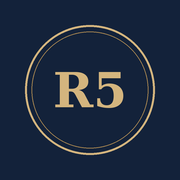
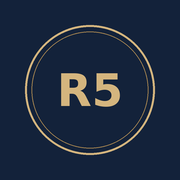
v2.1: tipografía sin serifa del sistema en toda la app
Claude-Session: https://claude.ai/code/session_01GUBCp8bpnbjM9q6QvJCUhL

Changed region(s): [[0.3056, 0.3889, 0.6944, 0.6111], [0.4722, 0.5278, 0.5, 0.5556]]

diff --git a/index.html b/index.html
@@ -19,7 +19,7 @@
   --navy:#13223a; --navy-2:#1c3050; --gold:#ad8a52; --gold-2:#d4b57e; --gold-soft:#efe5d2;
   --banco:#24406b; --ok:#2f6b4f; --ok-soft:#e0ede5; --warn:#8f6420; --warn-soft:#f5ebd6; --err:#8c2f39; --err-soft:#f4e0e2;
   --input:#ffffff; --shadow:0 1px 0 rgba(19,34,58,.04), 0 8px 24px -14px rgba(19,34,58,.28);
-  --serif:"New York", ui-serif, "Iowan Old Style", "Palatino Linotype", Palatino, Georgia, serif;
+  --display:-apple-system, BlinkMacSystemFont, "SF Pro Display", "Helvetica Neue", Arial, sans-serif;
   --sans:-apple-system, BlinkMacSystemFont, "SF Pro Text", "Helvetica Neue", Arial, sans-serif;
 }
 @media (prefers-color-scheme: dark){
@@ -40,9 +40,9 @@ header{position:sticky;top:0;z-index:6;background:var(--navy);color:#fff;
   padding:calc(env(safe-area-inset-top) + 10px) 16px 12px;border-bottom:1px solid rgba(212,181,126,.45)}
 .hrow{display:flex;align-items:center;gap:12px;max-width:640px;margin:0 auto}
 .crest{flex:none;width:42px;height:42px;border-radius:50%;border:1px solid var(--gold-2);display:flex;align-items:center;justify-content:center;
-  font:600 16px/1 var(--serif);color:var(--gold-2);letter-spacing:.5px;box-shadow:inset 0 0 0 3px var(--navy), inset 0 0 0 4px rgba(212,181,126,.35)}
+  font:600 16px/1 var(--display);color:var(--gold-2);letter-spacing:.5px;box-shadow:inset 0 0 0 3px var(--navy), inset 0 0 0 4px rgba(212,181,126,.35)}
 .htxt{flex:1;min-width:0}
-header h1{margin:0;font:600 20px/1.1 var(--serif);letter-spacing:.2px}
+header h1{margin:0;font:600 19px/1.15 var(--display);letter-spacing:-.2px}
 header p{margin:3px 0 0;font-size:12.5px;color:rgba(255,255,255,.66);white-space:nowrap;overflow:hidden;text-overflow:ellipsis}
 .hact{display:flex;align-items:center;gap:8px}
 .ver{font-size:11.5px;font-weight:600;padding:3px 8px;border-radius:6px;border:1px solid rgba(212,181,126,.5);color:var(--gold-2);letter-spacing:.3px}
@@ -67,7 +67,7 @@ nav button.on svg *{stroke-dasharray:1;animation:trazo .7s cubic-bezier(.6,0,.3,
 
 /* ---- Superficies ---- */
 .card{background:var(--surface);border:1px solid var(--line);border-radius:18px;padding:16px;margin-bottom:14px;box-shadow:var(--shadow)}
-.card h2{margin:0 0 12px;font:600 19px/1.2 var(--serif);color:var(--ink);display:flex;align-items:center;gap:8px}
+.card h2{margin:0 0 12px;font:600 18px/1.25 var(--display);letter-spacing:-.2px;color:var(--ink);display:flex;align-items:center;gap:8px}
 .card h2 svg{width:20px;height:20px;color:var(--gold);flex:none}
 .card h2 .h2r{margin-left:auto;font:500 13px var(--sans);color:var(--muted)}
 .sect{font:600 13px var(--sans);color:var(--muted);margin:18px 2px 8px;display:flex;align-items:center;gap:8px}
@@ -77,11 +77,11 @@ nav button.on svg *{stroke-dasharray:1;animation:trazo .7s cubic-bezier(.6,0,.3,
 .hero{background:radial-gradient(120% 90% at 85% 0%, var(--navy-2) 0%, var(--navy) 60%);color:#fff;border-radius:24px;padding:18px 18px 16px;margin-bottom:14px;
   border:1px solid rgba(212,181,126,.35);box-shadow:0 18px 40px -22px rgba(19,34,58,.75);overflow:hidden;position:relative}
 .hero .per{font:500 13px var(--sans);color:var(--gold-2)}
-.hero h2{margin:4px 0 4px;font:600 26px/1.12 var(--serif);letter-spacing:-.2px}
+.hero h2{margin:4px 0 4px;font:700 26px/1.12 var(--display);letter-spacing:-.5px}
 .hero .cuando{font-size:14px;color:rgba(255,255,255,.75)}
 .hero .htop{display:flex;gap:12px;align-items:flex-start}.hero .htop>div:first-child{flex:1;min-width:0}
 .hero .cuenta{flex:none;text-align:center;min-width:68px;padding:7px 10px 6px;border-radius:14px;border:1px solid rgba(212,181,126,.45)}
-.hero .cuenta b{display:block;font:600 26px/1 var(--serif);color:var(--gold-2)}
+.hero .cuenta b{display:block;font:600 26px/1 var(--display);color:var(--gold-2)}
 .hero .cuenta span{font-size:11px;color:rgba(255,255,255,.7)}
 .fachada{display:block;width:100%;height:auto;margin:10px 0 4px}
 .fachada .win{cursor:pointer}
@@ -94,7 +94,7 @@ nav button.on svg *{stroke-dasharray:1;animation:trazo .7s cubic-bezier(.6,0,.3,
 .hero .sum{display:flex;gap:10px;margin-top:14px;padding-top:12px;border-top:1px solid rgba(212,181,126,.25)}
 .hero .sum div{flex:1}
 .hero .sum span{display:block;font-size:12px;color:rgba(255,255,255,.62)}
-.hero .sum b{font:600 19px/1.2 var(--serif)}
+.hero .sum b{font:600 19px/1.2 var(--display)}
 
 /* ---- Reparto y gráfico ---- */
 .barra{display:flex;height:14px;border-radius:7px;overflow:hidden;background:var(--surface-2);border:1px solid var(--line)}
@@ -104,14 +104,14 @@ nav button.on svg *{stroke-dasharray:1;animation:trazo .7s cubic-bezier(.6,0,.3,
 .reparto>div{display:flex;gap:9px;align-items:flex-start}
 .reparto i{flex:none;width:10px;height:10px;border-radius:3px;margin-top:5px}
 .reparto span{display:block;font-size:12.5px;color:var(--muted)}
-.reparto b{font:600 17px/1.2 var(--serif)}
+.reparto b{font:600 17px/1.2 var(--display)}
 .grafico{display:block;width:100%;height:auto}
 .grafico .col{transform-box:fill-box;transform-origin:bottom;animation:sube .8s cubic-bezier(.3,.7,.2,1) both}
 @keyframes sube{from{transform:scaleY(0)}to{transform:scaleY(1)}}
 .acciones{display:grid;grid-template-columns:1fr 1fr;gap:10px;margin-bottom:14px}
 .accion{display:flex;flex-direction:column;align-items:flex-start;gap:10px;border:1px solid var(--line);background:var(--surface);border-radius:16px;padding:14px;text-align:left;box-shadow:var(--shadow)}
 .accion svg{width:26px;height:26px;color:var(--gold)}
-.accion b{font:600 15px/1.2 var(--serif)}
+.accion b{font:600 15px/1.2 var(--display)}
 .accion span{font-size:12.5px;color:var(--muted)}
 .accion:active{transform:scale(.98)}
 
@@ -142,7 +142,7 @@ input:disabled{opacity:.5}
 .btns{display:flex;gap:8px;margin-top:14px;flex-wrap:wrap}.btns>.btn{flex:1}.btns>.btn.oro{flex:1.8}
 
 /* ---- Texto y etiquetas ---- */
-.big{font:600 30px/1.1 var(--serif);letter-spacing:-.3px}
+.big{font:600 30px/1.1 var(--display);letter-spacing:-.3px}
 .muted{color:var(--muted);font-size:13px}
 .chip{display:inline-block;font-size:11px;font-weight:600;padding:2px 8px;border-radius:6px;background:var(--surface-2);color:var(--muted);border:1px solid var(--line)}
 .chip.ef{background:var(--gold-soft);color:var(--warn);border-color:transparent}
@@ -156,13 +156,13 @@ input:disabled{opacity:.5}
 .item:first-child{border-top:0}
 .item[data-act="editar"]:active{background:var(--surface-2)}
 .unit{flex:none;width:48px;height:48px;border-radius:10px;display:flex;align-items:center;justify-content:center;
-  font:600 16px/1 var(--serif);color:var(--navy);background:linear-gradient(160deg,#f7efdf,#e3cfa8);border:1px solid #c9ab76;
+  font:600 16px/1 var(--display);color:var(--navy);background:linear-gradient(160deg,#f7efdf,#e3cfa8);border:1px solid #c9ab76;
   box-shadow:inset 0 1px 0 rgba(255,255,255,.7), inset 0 -1px 0 rgba(120,90,40,.25)}
 .unit.local{background:linear-gradient(160deg,var(--navy-2),var(--navy));color:var(--gold-2);border-color:#3a4d6e;font-size:14px}
 @media (prefers-color-scheme: dark){:root:not([data-theme="light"]) .unit:not(.local){background:linear-gradient(160deg,#d9c294,#a98a55);color:#141a26;border-color:#7d6436}}
 .grow{flex:1;min-width:0}
 .name{font-weight:600;white-space:nowrap;overflow:hidden;text-overflow:ellipsis}
-.amount{width:112px;flex:none;text-align:right;font:600 17px var(--serif)}
+.amount{width:112px;flex:none;text-align:right;font:600 17px var(--display)}
 .amount::placeholder{font-family:var(--sans);font-weight:400;font-size:15px}
 
 /* ---- Avisos ---- */

diff --git a/app.js b/app.js
@@ -3,7 +3,7 @@
   'use strict';
   const S = window.SEPA;
   const KEY = 'adeudosRY5_v1';
-  const VERSION = 'v2.0';
+  const VERSION = 'v2.1';
   const $ = s => document.querySelector(s);
   const esc = s => String(s == null ? '' : s).replace(/[&<>"']/g, c => ({ '&': '&amp;', '<': '&lt;', '>': '&gt;', '"': '&quot;', "'": '&#39;' }[c]));
   const uid = () => Date.now().toString(36) + Math.random().toString(36).slice(2, 7);
@@ -249,7 +249,7 @@
         return '<rect x="' + (cx - 38) + '" y="203" width="76" height="6" rx="1" fill="' + g + '.55)"/>' +
           '<rect class="v" x="' + (cx - 36) + '" y="211" width="72" height="34" rx="2" fill="' + c[0] + '" stroke="' + c[1] + '"' + (e.estado === 'falta' ? ' stroke-dasharray="3 3"' : '') + (e.estado === 'hecho' ? ' filter="url(#brillo)"' : '') + '/>' +
           '<path d="M' + cx + ' 211v34" stroke="' + (e.estado === 'hecho' ? 'rgba(19,34,58,.25)' : g + '.25)') + '"/>' +
-          '<text x="' + cx + '" y="232" text-anchor="middle" font-family="ui-serif, Georgia, serif" font-size="13" font-weight="600" fill="' + txt(e.estado) + '">' + 'Local ' + u.slice(1) + '</text>';
+          '<text x="' + cx + '" y="232" text-anchor="middle" font-family="-apple-system, Helvetica, Arial, sans-serif" font-size="13" font-weight="600" fill="' + txt(e.estado) + '">' + 'Local ' + u.slice(1) + '</text>';
       });
     });
     // Plantas 1 a 3, de abajo arriba
@@ -264,7 +264,7 @@
           return '<rect class="v" x="' + (cx - 24) + '" y="' + top + '" width="48" height="35" rx="2" fill="' + c[0] + '" stroke="' + c[1] + '"' +
             (e.estado === 'falta' ? ' stroke-dasharray="3 3"' : '') + (e.estado === 'hecho' ? ' filter="url(#brillo)"' : '') + '/>' +
             '<path d="M' + cx + ' ' + top + 'v35" stroke="' + (e.estado === 'hecho' ? 'rgba(19,34,58,.22)' : g + '.22)') + '"/>' +
-            '<text x="' + cx + '" y="' + (top + 22) + '" text-anchor="middle" font-family="ui-serif, Georgia, serif" font-size="14" font-weight="600" fill="' + txt(e.estado) + '">' + f + L + '</text>' + bal;
+            '<text x="' + cx + '" y="' + (top + 22) + '" text-anchor="middle" font-family="-apple-system, Helvetica, Arial, sans-serif" font-size="14" font-weight="600" fill="' + txt(e.estado) + '">' + f + L + '</text>' + bal;
         });
       });
     });
@@ -285,7 +285,7 @@
       s += '<g class="col" ' + d + '>' +
         (hb ? '<rect x="' + (cx - bw / 2) + '" y="' + (base - hb) + '" width="' + bw + '" height="' + hb + '" rx="3" fill="var(--banco)"/>' : '') +
         (he ? '<rect x="' + (cx - bw / 2) + '" y="' + (base - hb - he) + '" width="' + bw + '" height="' + he + '" rx="3" fill="var(--gold)"/>' : '') + '</g>' +
-        '<text x="' + cx + '" y="' + (base - hb - he - 7) + '" text-anchor="middle" font-size="11.5" font-weight="600" fill="var(--ink)" font-family="ui-serif, Georgia, serif">' + eurC(x.t) + '</text>' +
+        '<text x="' + cx + '" y="' + (base - hb - he - 7) + '" text-anchor="middle" font-size="11.5" font-weight="600" fill="var(--ink)" font-family="-apple-system, Helvetica, Arial, sans-serif">' + eurC(x.t) + '</text>' +
         '<text x="' + cx + '" y="' + (base + 17) + '" text-anchor="middle" font-size="11" fill="var(--muted)">' + partes[0].charAt(0) + partes[0].slice(1).toLowerCase() + '–' + partes[1].charAt(0) + partes[1].slice(1).toLowerCase() + '</text>' +
         '<text x="' + cx + '" y="' + (base + 31) + '" text-anchor="middle" font-size="10" fill="var(--muted)">' + partes[2] + '</text>';
     });

diff --git a/sw.js b/sw.js
@@ -1,4 +1,4 @@
-const CACHE = 'adeudos-ry5-v2.0';
+const CACHE = 'adeudos-ry5-v2.1';
 const FILES = ['./', 'index.html', 'app.js', 'sepa.js', 'manifest.webmanifest', 'icon-180.png', 'icon-192.png', 'icon-512.png'];
 self.addEventListener('install', e => { e.waitUntil(caches.open(CACHE).then(c => c.addAll(FILES))); self.skipWaiting(); });
 self.addEventListener('activate', e => {
